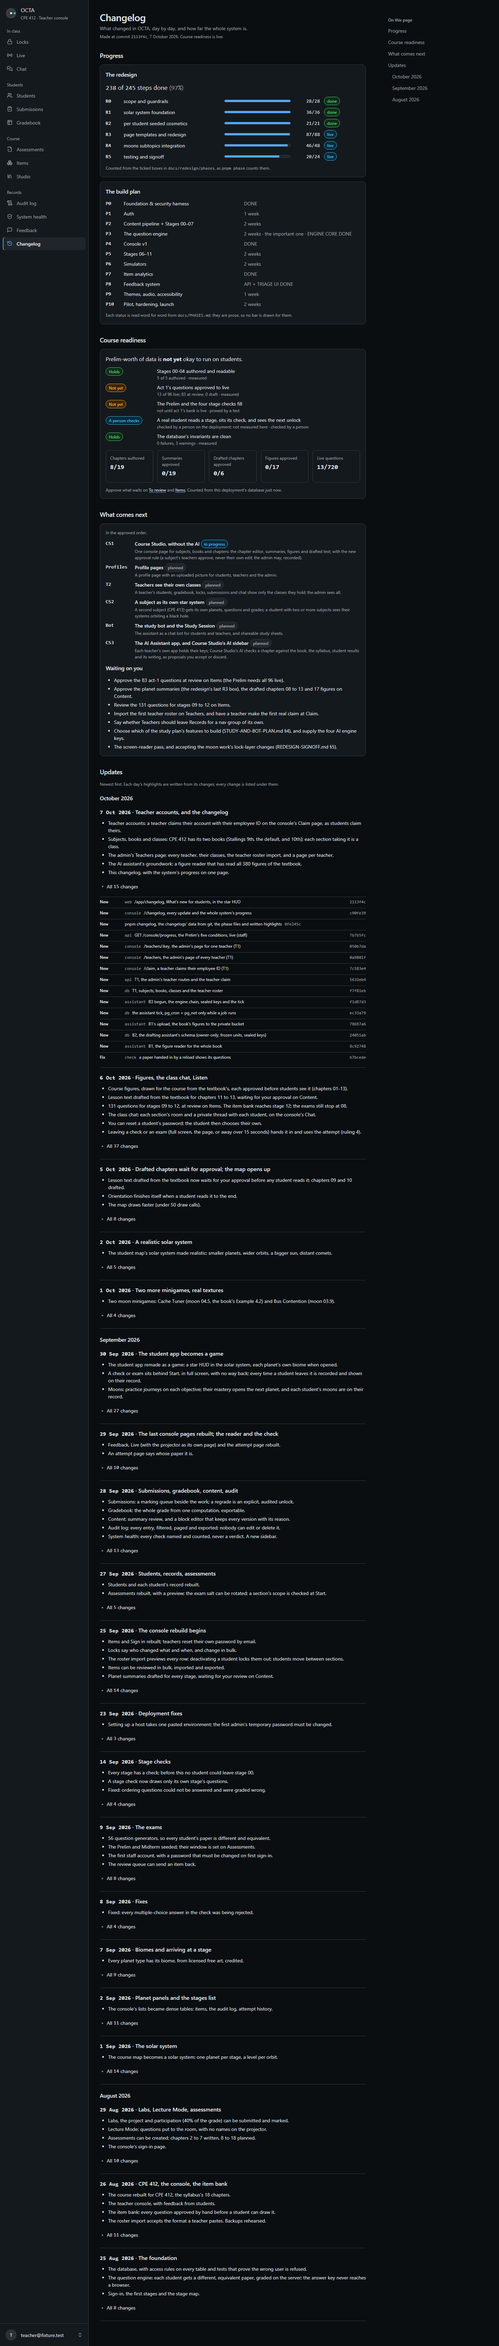
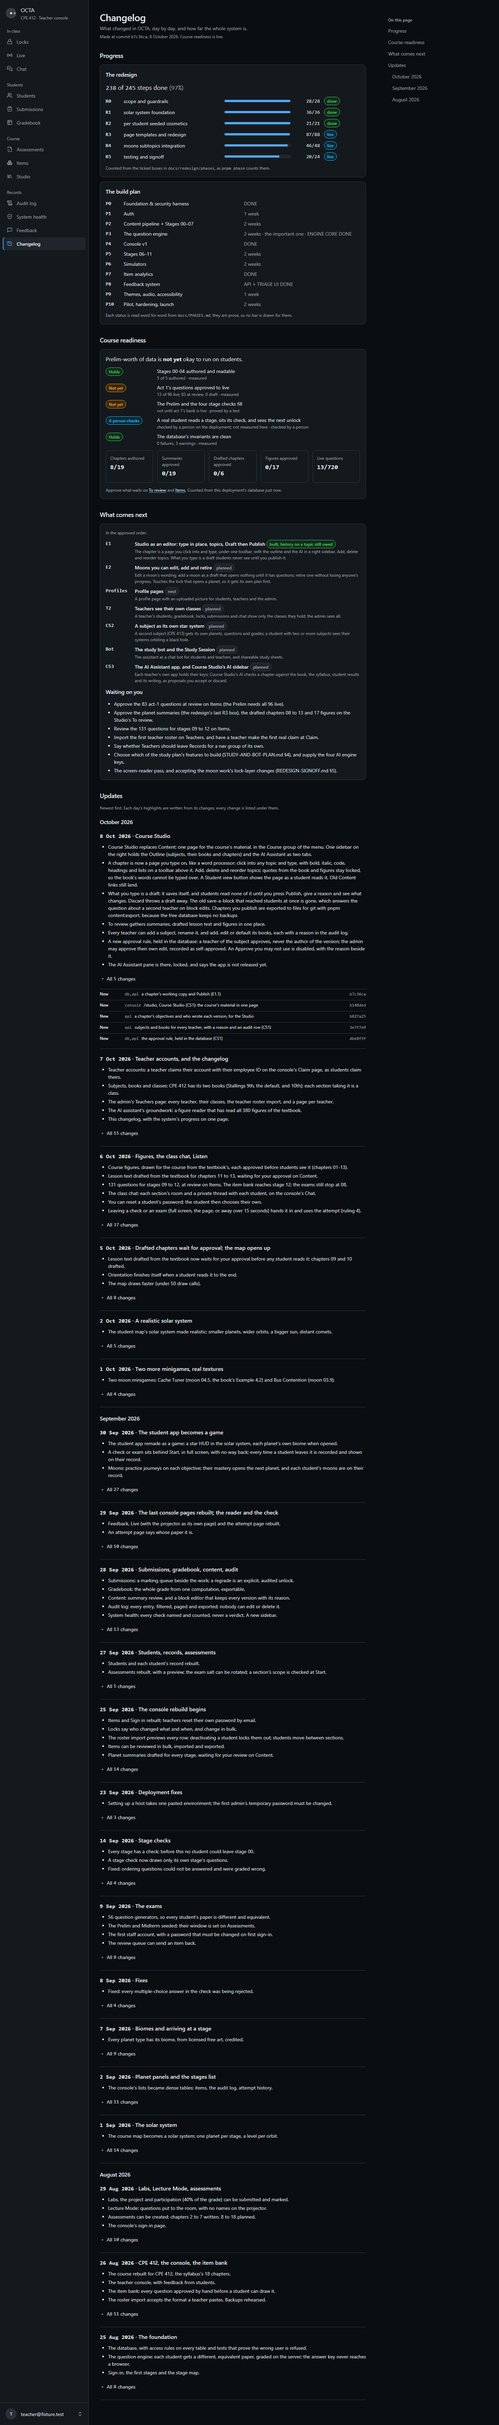
docs: the Studio as an editor built (E1), the changelog, the next prompt (E2)
NEXT-SESSION 0zk and PROGRESS say what was built, what was found by looking
(typing over a locked quote, the active marker, contrast, the gutter at 380) and
what is NOT built (E1.5 per-topic History, E2 moons, E3 the AI proposing). The
Studio SPEC, motion notes and the console's /studio row describe the editor and
Draft then Publish. The changelog's 8 Oct entry and roadmap say the same, and
REVAMP-PROMPTS section 1 is the E2 prompt (plan first; the lock layer needs the
instructor), with the profiles prompt parked beneath it.

diff --git a/apps/console/src/pages/ChangelogPage.tsx b/apps/console/src/pages/ChangelogPage.tsx
@@ -227,7 +227,7 @@ function Next() {
               <span className="num cg-phase-id">{n.id}</span>
               <div className="min-w-0">
                 <p className="text-sm font-medium text-ink">
-                  {n.title} <Badge tone={n.state === "in progress" ? "info" : "neutral"}>{n.state}</Badge>
+                  {n.title} <Badge tone={n.state === "in progress" ? "info" : n.state.startsWith("built") ? "success" : "neutral"}>{n.state}</Badge>
                 </p>
                 <p className="cg-faint">{n.what}</p>
               </div>

diff --git a/apps/console/CLAUDE.md b/apps/console/CLAUDE.md
@@ -62,7 +62,7 @@ scrim, any route change or Tab into the page, with focus back on its button.
 | `/students/:id` | one student's record. **Reset password… (6 Oct 2026, instructor ruling "both, the console tool first"):** from Actions, an active student only, a reason (audited `roster.password_reset`), and a temporary password shown ONCE, never stored or logged; the student must choose their own at next sign-in (`must_change_password`, apps/web). Needs the deployment's Supabase project; locally it says so. **Rebuilt 27 Sep 2026** (`design/templates/console/students-detail/SPEC.md`): a record header (back, name, Registered/Deactivated in a word, ID · section · registration date, one **Actions** menu holding the roster's own `MoveDialog` and `StatusDialog`, reused); every attempt; opening one regenerates the exact paper in place (options in the order they saw, their answer, the key, the verdict in words, the rationale they were shown, time on item). **The key, verdict and rationale are withheld on an in-progress or abandoned paper** (instructor, 27 Sep 2026): the database grants staff the key for every status, but a console is projected, and this is a render decision, not a payload one. A table at 40rem of its own width and up, a list below |
 | `/attempts/:id` | the exact paper, replayed from the stored seed, on its own page (the record opens the same paper in place, so this was never the only place a key is shown). **Rebuilt 29 Sep 2026** (`design/templates/console/attempts-detail/SPEC.md`), against Canvas's quiz results page, on the instructor's rulings of that day: a document, the questions in the order sat beside the facts (score, answered, started, handed in, time taken, time on questions, engine) and a question index whose results are a shape and a word. **The key, verdicts and rationales are withheld on an in-progress or abandoned paper, render-side, by the record's own `showsKey()`**, so the two pages cannot disagree; a voided paper shows everything and says it no longer counts. `GET /console/attempts/:id` says whose paper it is (student, assessment, attempt, when, score), so Back is a link to the record; a malformed id is 404 "No such attempt.", a state with a link to Students, not a Try again. Nothing on the page writes |
 | `/gradebook` | every student's score so far, weighted by the syllabus. **Rebuilt 28 Sep 2026** (`design/templates/console/gradebook/SPEC.md`): KPI row, class average per stage check as an HTML bar list with every value printed, the five weights in words, and a grid with two views (**Final grade**: the five components, *Final so far*, *Unmarked*; **Stage checks**: 01-18, "not sat" never 0) and a class-average row. The arithmetic is the API's (`services/api/src/gradebook/compute.ts`, one function behind both `GET /console/gradebook` and the CSV): **weights fixed** to the syllabus (`GRADE_WEIGHTS`), **a final SO FAR** rescaled over the components the class has marks in, with the coverage stated; graded submissions only, normalised by `max_score`; handed-in-unmarked left out, not-handed-in 0. **Not built, by decision (instructor, 28 Sep 2026):** weighting configuration (weights are policy), and XLSX / "the university's format" (no document defines it; waits for a sample grade sheet). Lazy-loaded; imports no Recharts |
-| `/studio` | **Course Studio: the course's material, in one page** (CS1, 8 Oct 2026; `design/templates/console/studio/SPEC.md`, `docs/COURSE-STUDIO-PLAN.md`). It took in `/content` and `/content/:stageId`, which **redirect** to `/studio` (`?view=summaries` to `/studio/review`) and `/studio/cpe-412/:stageId`. Three panes after shadcn's sidebar-15, each choosing on the page's own width: at 60rem and up the **outline** (Overview, To review, then every subject with its books and chapters) is docked and the **AI Assistant** pane opens beside it on demand; below, both are sheets (modal). Views in the editor pane: **Overview** (`/studio`: the four KPIs and every chapter, dense rows at 1440, cards at 380), **To review** (`/studio/review`: summaries, drafted lesson text, figures), **a subject** (`/studio/:subject`: rename, add and edit books, make one the default, a count of its classes), **a chapter** (`/studio/:subject/:stageId`, tabs in `?tab=`: Blocks, Summary, Draft and Figures when the chapter has them, Objectives read-only). Every rule `/content` kept still holds: **an approval is of one exact text** (hash; 409 if it changed), send back needs a reason, **Save needs a change, a reason and the version it opened**, every replaced version is kept, **quotes from the book are read-only**, `sync-content` never overwrites a console edit. **The approval rule** (instructor, 7 Oct 2026, night): an approver is a teacher OF THE SUBJECT (an un-ended class of it) and never the author of the version; the admin may approve their own edit, recorded as self-approved. It is held in the database (`db/addendum-studio.sql`, `approval_verdict()` and a trigger on the four tables), asked first by the API (`services/api/src/approval.ts`) so a refusal is a sentence, and shown here as a disabled Approve with the reason beside it (`lib/approval-gate.tsx`, which decides what to render and never what is allowed). Subjects and books are written by **every** teacher through `/api/v1/console/subjects` and `/books`, each with a reason and an `audit_log` row; RLS stays no-client-write; nothing is deleted and a code never changes. The AI pane is **locked** and has no control (no app to connect yet; CS3). A subject other than CPE 412 has no chapters until CS2. **Not built, by decision:** deleting a subject or book, changing a code, a new subject's chapters (CS2), the AI's work (CS3), and editing a summary's text. **Re-ruled IN on 8 Oct 2026, planned and not yet built (`docs/STUDIO-EDITOR-PLAN.md`):** rich-text typing in place, adding, deleting and reordering topics, editing and adding moons, all as Draft then Publish, with the outline and the AI moved into a right sidebar of two tabs. **Open for the instructor:** whether a block edit, which reaches students at once, should also need a second teacher |
+| `/studio` | **Course Studio: the course's material, in one page** (CS1, 8 Oct 2026; `design/templates/console/studio/SPEC.md`, `docs/COURSE-STUDIO-PLAN.md`). It took in `/content` and `/content/:stageId`, which **redirect** to `/studio` (`?view=summaries` to `/studio/review`) and `/studio/cpe-412/:stageId`. **One sidebar, on the RIGHT, two tabs (Outline, AI Assistant), since 8 Oct 2026**: at 60rem and up it is a pane beside the page (the bar's buttons show and hide it), below a sheet (modal). The Outline is Overview, To review, then every subject with its books and chapters. Views in the editor pane: **Overview** (`/studio`: the four KPIs and every chapter, dense rows at 1440, cards at 380), **To review** (`/studio/review`: summaries, drafted lesson text, figures), **a subject** (`/studio/:subject`: rename, add and edit books, make one the default, a count of its classes), **a chapter** (`/studio/:subject/:stageId`): **an editor** (TipTap, lazy-loaded, `pages/studio/editor/`), the chapter as a page of topics you click and type in; bold, italic, code, headings 2-4 and lists from the toolbar; add, delete and reorder topics (toolbar, the active topic's controls, Alt+Up/Down); a quote from the book and a figure are LOCKED (moved or deleted, never typed over: `LockGuard`); a Student view toggle; then the summary card, the moons (read-only until E2) and the figures. **Draft, then Publish**: typing autosaves a working copy (`chapter_drafts`, origin `console`; `PUT /console/content/:id/working`), students read nothing of it until Publish… (a reason, a summary of what changes; `POST …/publish`), Discard draft throws it away. The editing teacher may publish their own typed edit; the teacher-of-the-subject rule still gates Publish. `PUT /console/content/blocks/:id` is retired (404). A chapter the Studio owns is not written from its `content/stages` file (`stages.content_owner`); `pnpm content:export` writes it to `content/export/` for git. Every rule `/content` kept still holds: **an approval is of one exact text** (hash; 409 if it changed), send back needs a reason, **a save names the version it opened (409 if stale) and Publish needs a reason**, every replaced version is kept, **quotes from the book are read-only**, `sync-content` never overwrites a console edit or a chapter the Studio owns. **The approval rule** (instructor, 7 Oct 2026, night): an approver is a teacher OF THE SUBJECT (an un-ended class of it) and never the author of the version; the admin may approve their own edit, recorded as self-approved. It is held in the database (`db/addendum-studio.sql`, `approval_verdict()` and a trigger on the four tables), asked first by the API (`services/api/src/approval.ts`) so a refusal is a sentence, and shown here as a disabled Approve with the reason beside it (`lib/approval-gate.tsx`, which decides what to render and never what is allowed). Subjects and books are written by **every** teacher through `/api/v1/console/subjects` and `/books`, each with a reason and an `audit_log` row; RLS stays no-client-write; nothing is deleted and a code never changes. The AI pane is **locked** and has no control (no app to connect yet; CS3). A subject other than CPE 412 has no chapters until CS2. **Not built, by decision:** deleting a subject or book, changing a code, a new subject's chapters (CS2), the AI's work (CS3), and editing a summary's text. **Built 8 Oct 2026 (E1, `docs/STUDIO-EDITOR-PLAN.md`):** the editor, topics, Draft then Publish, the right sidebar. **Ruled IN and not yet built:** editing, adding and deleting **moons** (E2: it touches the lock layer and needs its own plan and denial tests) and the AI proposing topics, questions, figures, summaries and moons for a teacher to accept (E3, with CS3; today nothing a teacher can press calls an AI). Per-topic History (the old block history's Use this text) is not in the editor yet (E1.5). The second-teacher question is closed by Draft then Publish |
 | `/audit` | who changed what and why, and the evidence when a grade is challenged. Read-only, and there is no edit, delete or clear control by design. **Rebuilt 28 Sep 2026** (`design/templates/console/audit/SPEC.md`), on the instructor's rulings of that day: **filters run on the server over the whole log** (action family, who incl. *System (scheduled)*, about whom or what, a local-day range), all in the address; **100 a page and Load older** (a keyset cursor), so nothing ages off the page; **Export CSV** of every match (`GET /console/audit.csv`, same filters, formula-guarded cells). Each entry is **a sentence written by the API** (`services/api/src/audit/log.ts`), so the page and the CSV agree, naming the student it is about even when a lock keeps them only in its payload; Details lists every recorded field in words. A table at 52rem of its own width, cards below, and the timeline under day headings. **`audit_log` is append-only in the database** for every role, TRUNCATE included |
 | `/system` | `run_invariants()`, live, and read-only. **Rebuilt 28 Sep 2026** (`design/templates/console/system/SPEC.md`), on the instructor's rulings of that day. **Never a verdict**: counts per state, zero included, then every one of the 28 checks, grouped by the areas of `addendum-audit.sql`, each a state in a word and a shape, its title and **what it protects**; Details says what it checks, what to do (naming the page that fixes it) and shows its offending rows. What each check means lives in ONE catalogue, `services/api/src/audit/invariants.ts`, and `console.spec.ts` fails if `run_invariants()` returns an id it does not describe. **A notice only when the table a check reads is empty** (INV-18: no items; INV-27: no content blocks; INV-28/29: no objectives), decided by the API with its reason. The **nightly runs** are `audit_runs`, written by pg_cron on Supabase and never locally; the page counts each from its stored results, not its `passed` column (see `NEXT-SESSION.md` §0l.1). A row at 40rem of its own width and up, stacked below; a failure's rows a table that fits, or a list per row |
 | `/feedback` | what students report, worked down as a queue. **Rebuilt 29 Sep 2026** (`design/templates/console/feedback/SPEC.md`), on the instructor's rulings of that day. **One queue for all staff**; "My feedback" waits for the console's own flag (`PAGE-SPECS.md` §4.1, shell work). **Exact repeats are one row** (same kind, item, route, status and text, case folded) and **one triage moves every report in it** (`PATCH /console/feedback`, one transaction, one `audit_log` row per report, 404 and nothing written if any id is gone). Triage is **status, severity and released in**, one toast. Status (the counts are the filter) and kind are filtered **on the server**, in the address; "Showing N of M"; **Load older** on a keyset cursor over groups; **Export CSV** of every matching report (`GET /console/feedback.csv`; the formula guard is `services/api/src/csv.ts`, shared with `/audit`). A group **expands in place, one at a time**: each report's who and when, the variant it saw or a sentence saying none was attached (INV-25), and what was attached automatically. **SUS by role** with its n, "not yet reliable" below 20. The queue's reads and write are `services/api/src/feedback/queue.ts`. A table at 52rem of its own width, cards below |

diff --git a/docs/redesign/REVAMP-PROMPTS.md b/docs/redesign/REVAMP-PROMPTS.md
@@ -23,7 +23,116 @@ design work at all.
 
 ---
 
-## 1. Start here — the next session: PROFILES (profile pages and pictures)
+## 1. Start here — the next session: E2, MOONS IN THE STUDIO (the plan first), then E1.5
+
+```
+Read docs/NEXT-SESSION.md sections 0zk, 0zj and 0zi first: the Studio is an
+editor now (E1: a right sidebar of two tabs, a chapter as a page you type on,
+topics you add, delete and reorder, a locked book quote, Draft then Publish,
+autosave, pnpm content:export) and is on the deployment; CS1 and the changelogs
+are built. The order is E1 (done) -> E2 and E1.5 (this session) -> PROFILES ->
+T2 -> CS2 -> the student bot and Study Session -> the app with CS3. Then
+docs/STUDIO-EDITOR-PLAN.md in full (the instructor's rulings of 8 Oct, and the
+Moons (E2) section), docs/COURSE-STUDIO-PLAN.md section 4 (the order),
+docs/redesign/REDESIGN-SIGNOFF.md section 5 (the moon work's lock layer, which
+the instructor has NOT yet signed off), db/CLAUDE.md (V-29: a column grant is
+decided on purpose; V-30: a policy's subquery is subject to RLS), and
+apps/console/CLAUDE.md's /studio row. Then root CLAUDE.md: hard rules 3, 5, 6,
+8 and 10, "Templates are ARTIFACTS", "THE HARDEST RULE", "NEVER PROCEED TO
+ANOTHER PAGE", "REDO THE PAGE". Do not re-derive what those carry.
+
+Run pnpm phase. Show the table, say the percentage, name the live phase. On
+8 Oct it was 238/245, 97%: R3 87/88, R4 46/48, R5 20/24, every open box a
+person's. Then say plainly whether Prelim-worth of data is okay to run on
+students, checking the five conditions in CLAUDE.md (the console's /changelog
+shows them live). On 8 Oct it was NOT: on the deployment stage 01 has 14 live,
+1 at review, 2 retired, and 02-04 have none live (14 of the act-1 bank's 96);
+11 of the 19 planet summaries are approved; deployment invariants 0 failures
+(3 warnings).
+
+Confirm everything is green before touching anything, AGAINST BUILDS. After a
+reboot, start Docker Desktop first. Kill orphaned API trees and previews:
+stopping a background task does NOT stop its server, so kill by PID (netstat
+-ano, taskkill //T //F //PID) and prove the port is free. Run pnpm db:reset,
+THEN node scripts/db-demo.mjs (FIFTEEN SQL files: addendum-studio-editor.sql is
+the last). Start ONE pnpm dev:api and prove it with a real GET (readyz); curl
+again after EVERY db:reset (a reset can kill it). Build and preview apps/web on
+5185 and apps/console on 5186 (restart a preview after EVERY build), and export
+OCTA_WEB_URL and OCTA_CONSOLE_URL. Every API test run, and pnpm verify, empties
+the seeded database: reset and reseed before any Playwright run. Capture a
+dialog only after its ease-in. A script with an apostrophe, backtick or
+backslash goes through the Write tool, never a heredoc (a heredoc with a long
+prose body failed on 8 Oct too), and a regex-heavy edit through the Edit tool
+or a Python script written with Write. Git Bash rewrites a leading-slash
+argument into a Windows path: MSYS_NO_PATHCONV=1.
+
+The deployment: API https://octa-api-noq2.onrender.com, student site
+https://octa-web-dusky.vercel.app, console https://octa-console.vercel.app,
+Supabase ddvxkbcelpqydnjkffdr (the root .env's SUPABASE_DB_SESSION; never
+print it; SUPABASE_DB_DIRECT and _POOLED name ANOTHER project).
+scripts/.deploy-q.tmp.mjs runs SQL there after checking the ref; pnpm
+db:push:check prints the host, and pnpm db:push --file db/<addendum>.sql
+applies one.
+
+The work, in this order:
+
+1. E2 PLAN FIRST, in docs/STUDIO-EDITOR-PLAN.md or its own file, BEFORE any
+   code, and stop for the instructor's approval of it (the lock layer is
+   involved). Read how a moon is wired: the objectives table, items and
+   blueprints (one journey per moon), mastery, the four minigames,
+   is_stage_unlocked(), sync-content's handling of objectives and
+   check:objectives. Say: what editing a moon's wording changes and what it must
+   not (sync-content must stop overwriting an edited objective); how a NEW moon is
+   a draft the lock does not count until it has enough live questions to fill its
+   journey; how a RETIRED moon disappears for students and from the lock's count
+   while its mastery rows and items stay (rules 6 and 7); what a moon with a
+   minigame says when retired; who may publish a moon change (the approval rule:
+   a teacher of the subject, the author rule for the AI's proposals); the denial
+   tests, written RED FIRST (a student cannot write an objective; a draft moon is
+   invisible to a student and does not hold a planet shut; a retired moon's
+   evidence survives; a teacher of another subject cannot publish). If the
+   instructor has not signed off the moon work's lock layer (REDESIGN-SIGNOFF.md
+   section 5), say so and ask.
+2. After approval: the schema (an idempotent addendum, the SIXTEENTH file,
+   registered in scripts/db-reset.mjs and scripts/db-push-supabase.mjs, applied
+   to Supabase BEFORE the code, hard rule 10), the API, then the Studio's moons
+   section REDONE from a captured template (today it is a read-only list on the
+   chapter page): type in a moon's wording, add one (wording, bloom level, level
+   0-6, read/trace/build), retire one, all as part of Draft then Publish.
+   design/specs/console-studio-editor.spec.ts is the gate for it, at 1440 and
+   380, the six assertions, screenshots OPENED.
+3. E1.5: per-topic History in the editor (what the old block editor's History
+   and "Use this text" did, on a topic). The route and the client method exist
+   (GET /console/content/blocks/:id/history, api.contentHistory); the page does
+   not call them. Template first.
+4. Run pnpm content:export against the deployment's database if its
+   credentials are there, and commit content/export if the Studio owns any
+   chapter; if there is none, say so.
+
+Not this session (do not start): PROFILES, T2, CS2, the student bot, CS3.
+
+Still owed by the instructor (do not build around them): the first teacher
+roster import on /teachers and a first real claim at /claim; whether /teachers
+leaves Records for a nav group of its own; which of STUDY-AND-BOT-PLAN.md
+section 4's features to build; the four engine keys; approving the 83 act-1
+items at review (the Prelim needs 96 live), the 131 questions for 09-12, the
+chapter drafts 08-13, 17 figures and the 8 summaries still to review (on the
+Studio's To review); the screen-reader pass; accepting the moon work's
+lock-layer changes (REDESIGN-SIGNOFF.md section 5).
+
+Hard rule 10 binds. Never stage apps/console/.env.example (the instructor put a
+key in it). Any visual change goes through its page gate. Before the last
+commit run pnpm changelog and add the day's entry to
+content/changelog/highlights.json (and the roadmap), so the changelogs say what
+shipped.
+
+End: pnpm phase with the percentage, the Prelim sentence checked,
+docs/NEXT-SESSION.md and PROGRESS.md updated, REVAMP-PROMPTS.md section 1
+rewritten for the session after, committed and pushed, and the next prompt
+given in one plain fenced block.
+```
+
+## 1b. Parked — the session after: PROFILES (profile pages and pictures)
 
 ```
 Read docs/NEXT-SESSION.md sections 0zj, 0zi and 0zh first: the changelogs
@@ -80,7 +189,7 @@ The work, PROFILES (PROFILES-PLAN.md), in this order:
    design/templates/web/_direction and /app/progress's) and a teacher/admin
    profile (/profile; shadcn-admin's profile settings or similar), each with
    SOURCE.md, SPEC.md (every control, the four tests) and motion.md.
-2. The schema, an idempotent addendum, the FIFTEENTH file (register it in
+2. The schema, an idempotent addendum, the SIXTEENTH file (register it in
    scripts/db-reset.mjs and scripts/db-push-supabase.mjs as addendum-studio.sql
    was): profiles.avatar_path and avatar_updated_at written by the API only,
    and the private bucket profile-images created as chat-attachments is. Denial
@@ -107,9 +216,7 @@ Not this session (do not start): T2, CS2, the student bot, CS3.
 
 Still owed by the instructor (do not build around them): the first teacher
 roster import on /teachers and a first real claim at /claim; whether
-/teachers leaves Records for a nav group of its own; whether a Studio block
-edit, which reaches students at once, should also need a second teacher;
-which of STUDY-AND-BOT-PLAN.md section 4's features to build; the four engine
+/teachers leaves Records for a nav group of its own; which of STUDY-AND-BOT-PLAN.md section 4's features to build; the four engine
 keys; approving the 83 act-1 items at review (the Prelim needs 96 live), the
 131 questions for 09-12, the chapter drafts 08-13, 17 figures and the 8 summaries
 still to review (on the Studio's To review); the screen-reader pass; accepting

diff --git a/docs/NEXT-SESSION.md b/docs/NEXT-SESSION.md
@@ -1526,6 +1526,89 @@ left, or needing a decision:
 
 ---
 
+## 0zk. The Studio became an editor (E1) — 8 Oct 2026 (the same day, after 0zj)
+
+The instructor, after seeing CS1: **"Change the design for the Studio. It
+should look more like an actual editor, and the sidebar should be on the right.
+Also freedom of clicking and typing like MS Word for the topics or moons. Also
+check what the AI does: can it create and author topics for review, everything
+from the book?"** Answers (asked, then built): **one right sidebar, two tabs**
+(Outline, AI Assistant); **all four freedoms** (type in place; add, delete,
+reorder topics; edit a moon's wording; add and delete moons); **Draft, then
+Publish** (the editing teacher may publish their own edit); **the AI may also
+propose moons**. The plan is `docs/STUDIO-EDITOR-PLAN.md`.
+
+**Built (E1, in four steps, all through the gate):**
+- **E1.1, the database and API** (`b7c36ca`): `db/addendum-studio-editor.sql`,
+  the **fifteenth** file, **applied to the deployment (ddvxkbcelpqydnjkffdr)
+  before the push**. A chapter's working copy is a `chapter_drafts` row (origin
+  file | console | ai, a version counter, `base_hash`, `edited_by`); `stages.
+  content_owner` ('files' | 'console'); `cb_staff` dropped, so a staff client can
+  no longer write `content_blocks`. `PUT/GET/DELETE /console/content/:id/working`
+  and `POST …/publish` (`working-copy.ts`): block ids kept so history follows,
+  ordinals rewritten, deletions archived, one audit row. Locked topics (a book
+  quote, a figure) are accepted only as exactly what already exists. 36 tests.
+- **E1.2, the converter** (`lib/editor-doc.ts`): reader markdown ⇄ editor
+  document, with a round-trip test over every real block (untouched topics are
+  kept byte for byte, so a save never rewrites what nobody touched) and
+  collision detection for text the reader cannot show (`a*b*c`).
+- **E1.3, the page** (`pages/studio/editor/`, TipTap, lazy, ~142 KB gz): the
+  chapter as a page under one toolbar; topics with a gutter (label and move up,
+  down, add, delete) on the one the cursor is in; Alt+Up/Down; autosave 900 ms
+  after the last key; Student view toggle; Publish… (summary of what changes, a
+  reason, the draft's hash) and Discard draft; every failure keeps the typing
+  (409 stale, failed save, stale base). The right sidebar, two tabs. Gates:
+  `console-studio.spec.ts` (six assertions on every view) and the new
+  **`console-studio-editor.spec.ts`** (37 claims at both widths).
+- **E1.4, `pnpm content:export`** (`scripts/export-content.mjs`): writes the
+  chapters the Studio owns to `content/export/NN.json` + `NN.md`, because a
+  published chapter lives only in the database and Supabase Free keeps no
+  backups. Idempotent; `--check`. **Nobody has run it against the deployment
+  yet, and nothing schedules it: run it, and commit, after each publishing
+  session.**
+- **Retired:** `PUT /console/content/blocks/:id` (404 now) and the console's
+  `saveBlock`; the second-teacher question on block edits is closed by Draft
+  then Publish. `sync-content` skips a console-owned chapter and a console
+  working copy.
+
+**Found by LOOKING / by testing denial (not by a green run):**
+- **Typing with a locked quote selected REPLACED it** (a node selection is
+  overwritten by the next keystroke). `LockGuard` now ignores typing and paste
+  over a locked topic; the spec failed first (the first quote on the page became
+  a different one). A locked topic can still be moved or deleted, on purpose.
+- **Two topics showed their controls at once**, and the active marker never
+  moved: ProseMirror does not paint an outer decoration on a React node view, and
+  TipTap skips the re-render when the node object is unchanged. The views read
+  `props.decorations` and an `update` hook re-renders on a decoration change.
+- Only the active topic's controls are Tab stops (forty topics would be a
+  hundred and sixty); at 380 the gutter's pill wrapped into a tall block over the
+  line above (`nowrap`, and the quote's source hides under 640px); a locked
+  caption was 4.10:1 on bare-metal (full ink inside the locked topic).
+
+**Not built, and said so (nothing silently dropped):**
+- **E1.5, per-topic History** in the editor: the old block editor's History and
+  "Use this text". The route (`GET /console/content/blocks/:id/history`) and the
+  console client method still exist; the page does not call them.
+- **E2, moons** (edit wording, add as a draft that the lock does not count until
+  it has enough live questions, retire not delete). It touches
+  `is_stage_unlocked()`, so it needs **its own plan and denial tests first**, and
+  the instructor's sign-off on the moon work's lock layer (REDESIGN-SIGNOFF.md
+  §5) is a dependency. The chapter page shows moons read-only, and says so.
+- **E3, the AI proposing** topics, questions, figures, summaries and moons for a
+  teacher to accept. Today **nothing a teacher can press calls an AI** (the CS3
+  app is unbuilt; the B1 figure reader and B2 schema exist). The AI tab is
+  locked and says so.
+- A table topic is edited as text; there are no links, images or strike-through
+  because the student reader draws none.
+
+**Measured, 8 Oct:** phase report 238/245 (97%), unchanged (outside the R
+boxes). API 1061 tests, console 270, web 325 (`pnpm verify` exit 0), `console-studio` + `console-studio-editor`
+148 green at 1440 and 380, the shell, teaching, gate, changelog and r3 specs
+green. **Prelim NOT runnable on students** (unchanged by this work): the
+deployment has 14 of the act-1 bank's 96 questions live.
+
+---
+
 ## 0zj. Changelogs, then Course Studio CS1 built — 8 Oct 2026 (the session after 0zi)
 
 The instructor added, mid-session: **"Add Changelogs to both the admin/teachers

diff --git a/docs/STUDIO-EDITOR-PLAN.md b/docs/STUDIO-EDITOR-PLAN.md
@@ -153,10 +153,11 @@ proposal is published like any typed edit. Nothing here builds the app.
 
 | Phase | What | Gate |
 |---|---|---|
-| **E1.1** | Schema (`addendum-studio-editor.sql`, the fifteenth file, on Supabase first) and API: the working copy, autosave, discard, publish with block ids and ordering, the author rule for `console`; denial tests red first; `sync-content` guard | API tests |
-| **E1.2** | The converter (reader AST ⇄ editor doc) and its 754-block round-trip test | unit tests |
-| **E1.3** | The editor page: right sidebar tabs, page, toolbar, topic controls, Publish and Discard, REDONE from the templates; SPEC rewritten | spec at 1440 and 380, six assertions, captures opened |
-| **E1.4** | `export-content.mjs`; docs | test |
+| **E1.1** *(built 8 Oct)* | Schema (`addendum-studio-editor.sql`, the fifteenth file, on Supabase first) and API: the working copy, autosave, discard, publish with block ids and ordering, the author rule for `console`; denial tests red first; `sync-content` guard | API tests |
+| **E1.2** *(built 8 Oct)* | The converter (reader AST ⇄ editor doc) and its 754-block round-trip test | unit tests |
+| **E1.3** *(built 8 Oct; gate green)* | The editor page: right sidebar tabs, page, toolbar, topic controls, Publish and Discard, REDONE from the templates; SPEC rewritten | spec at 1440 and 380, six assertions, captures opened |
+| **E1.4** *(built 8 Oct)* | `export-content.mjs` (`pnpm content:export`); docs | test |
+| **E1.5** *(not built)* | Per-topic History in the editor: what the old block editor's History and Use this text did, on a topic | spec at 1440 and 380 |
 | **E2** | Moons: its own plan first | its own gate |
 | **E3** | AI proposals, with CS3 | with the app |
 

diff --git a/docs/PROGRESS.md b/docs/PROGRESS.md
@@ -19,6 +19,18 @@ about why (`shaloh-build` cost an hour when Vercel and Render both built `main`)
 
 ## STATE NOW
 
+**8 Oct 2026 (later):** phase report **238/245 (97%)**, unchanged (outside the R
+boxes). **The Studio became an editor (E1):** a right sidebar of two tabs, a
+chapter as a page you type on (TipTap), topics you add, delete and reorder, a
+quote from the book locked, **Draft then Publish**, autosave, Student view,
+`pnpm content:export` for the chapters the console now owns. The fifteenth SQL
+file is on Supabase. The retired live block edit closes the second-teacher
+question. **Not built:** per-topic History (E1.5), moons (E2, own plan and the
+lock layer's sign-off first), the AI proposing (E3, with CS3). Prelim NOT
+runnable (14 of 96 act-1 questions live on the deployment). Detail:
+NEXT-SESSION.md 0zk.
+
+
 **8 Oct 2026:** phase report **238/245 (97%)**, unchanged (the changelogs and
 Course Studio are outside the R boxes, like T1); live R3 87/88, R4 46/48, R5
 20/24, every open box a person's. **Built and pushed:** a changelog on both
